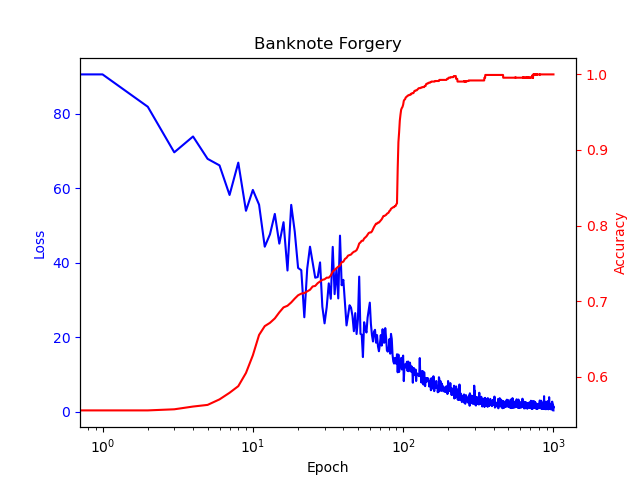
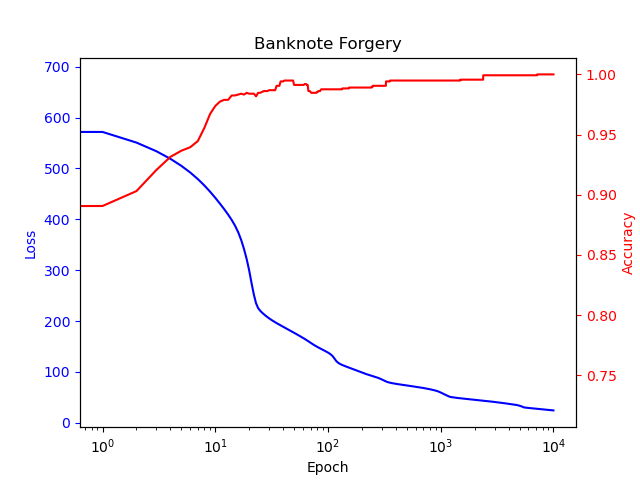
minor code updates, improved path handling

diff --git a/src/06_categorical_classification.py b/src/06_categorical_classification.py
@@ -2,6 +2,7 @@ import numpy as np
 import pandas as pd
 import matplotlib.pyplot as plt
 from matplotlib.backends.backend_pdf import PdfPages
+from pathlib import Path
 from sklearn.datasets import load_iris, load_digits
 
 
@@ -41,7 +42,7 @@ class CategoricalClassifierNet:
 
 		# yield last batch if not empty
 		if(batch):
-			yield self.X[batch], self.T[batch], True
+			yield self.X[batch], self.t[batch], True
 
 	# auxiliary function used by the function __computeAccuracy() in order to encode the predictions
 	# note: function is applied to a 1D-array (axis-wise)
@@ -114,7 +115,7 @@ class CategoricalClassifierNet:
 		return loss, accuracy
 
 	def sgd(self, learning_rate=0.001, epochs=10000, batchsize=64, mu=None):
-		print(f"Performing SGD with {epochs} epochs - eta={learning_rate}, B={batchsize}, mu={mu}")
+		print(f"\nPerforming SGD with {epochs} epochs - eta={learning_rate}, B={batchsize}, mu={mu}")
 		self.__initWeights()
 		losses = []
 		accuracies = []
@@ -151,38 +152,46 @@ X_digits = np.hstack((np.ones([data_digits.data.shape[0], 1]), data_digits.data)
 t_digits_orig = data_digits.target
 t_digits_enc = OneHotEncoder.encode(t_digits_orig)
 
-
+data = [(X_iris, t_iris_enc, "Iris Dataset"), (X_digits, t_digits_enc, "Digits Dataset")]
 
 
 # main
 # ---------------------------------------------------------
-datasets = 1
+datasets = 2
 K = [150]
 learning_rate = [0.001]
-epochs = [100000]
-batchsize = [X_iris.shape[0]]
-mu = [0.5]
+epochs = [10000]
+batchsize = [data[0][0].shape[0], data[1][0].shape[0]]
+mu = [0.9]
 losses = []
 accuracies = []
+root_directory = Path(__file__).parent.parent.resolve()
 
-cat_clf_iris = CategoricalClassifierNet(X_iris, t_iris_enc, K[0])
-loss, accuracy = cat_clf_iris.sgd(learning_rate=learning_rate[0], epochs=epochs[0], batchsize=batchsize[0], mu=mu[0])
-losses.append(loss)
-accuracies.append(accuracy)
+for dataset in range(datasets):
+	cat_clf = CategoricalClassifierNet(data[dataset][0], data[dataset][1], K[0])
+	loss, accuracy = cat_clf.sgd(learning_rate=learning_rate[0], epochs=epochs[0], batchsize=batchsize[dataset], mu=mu[0])
+	losses.append(loss)
+	accuracies.append(accuracy)
 
-pdf = PdfPages("Categorical_Classifier_Net.pdf")
+pdf = PdfPages(root_directory / "results" / "Categorical_Classifier_Net.pdf")
+colors = ['blue', 'red']
 
 # plots
 for dataset in range(datasets):
 	fig, ax = plt.subplots()
-	ax.plot(np.arange(losses[dataset].shape[0]), losses[dataset], '-', color="blue")
+	ax.plot(np.arange(losses[dataset].shape[0]), losses[dataset], '-', color=colors[0])
 	ax.set_xlabel("Epoch")
 	ax.set_ylabel("Loss")
 	ax.set_xscale("log")
+	ax.yaxis.label.set_color(colors[0])
+	ax.tick_params(axis='y', colors=colors[0])
+	ax.set_title(data[dataset][2])
 
 	ax2 = ax.twinx()
-	ax2.plot(np.arange(accuracies[dataset].shape[0]), accuracies[dataset], '-', color="red")
+	ax2.plot(np.arange(accuracies[dataset].shape[0]), accuracies[dataset], '-', color=colors[1])
 	ax2.set_ylabel("Accuracy")
+	ax2.yaxis.label.set_color(colors[1])
+	ax2.tick_params(axis='y', colors=colors[1])
 
 	pdf.savefig()
 	plt.show()

diff --git a/src/05_binary_classification.py b/src/05_binary_classification.py
@@ -130,14 +130,14 @@ data = [(X_bank, t_bank, "Banknote Forgery"), (X_spam, t_spam, "Spam Classificat
 datasets = 2
 K = 15
 learning_rate = [0.001]
-epochs = [1000]
-batchsize = [64]
+epochs = [10000]
+batchsize = [data[0][0].shape[0], data[1][0].shape[0]]
 losses = []
 accuracies = []
 
 for i in range(datasets):
 	bin_clf = BinaryClassifierNet(data[i][0], data[i][1], K)
-	loss, acc = bin_clf.sgd(learning_rate=learning_rate[0], epochs=epochs[0], batchsize=batchsize[0])
+	loss, acc = bin_clf.sgd(learning_rate=learning_rate[0], epochs=epochs[0], batchsize=batchsize[i])
 	losses.append(loss)
 	accuracies.append(acc)
 
